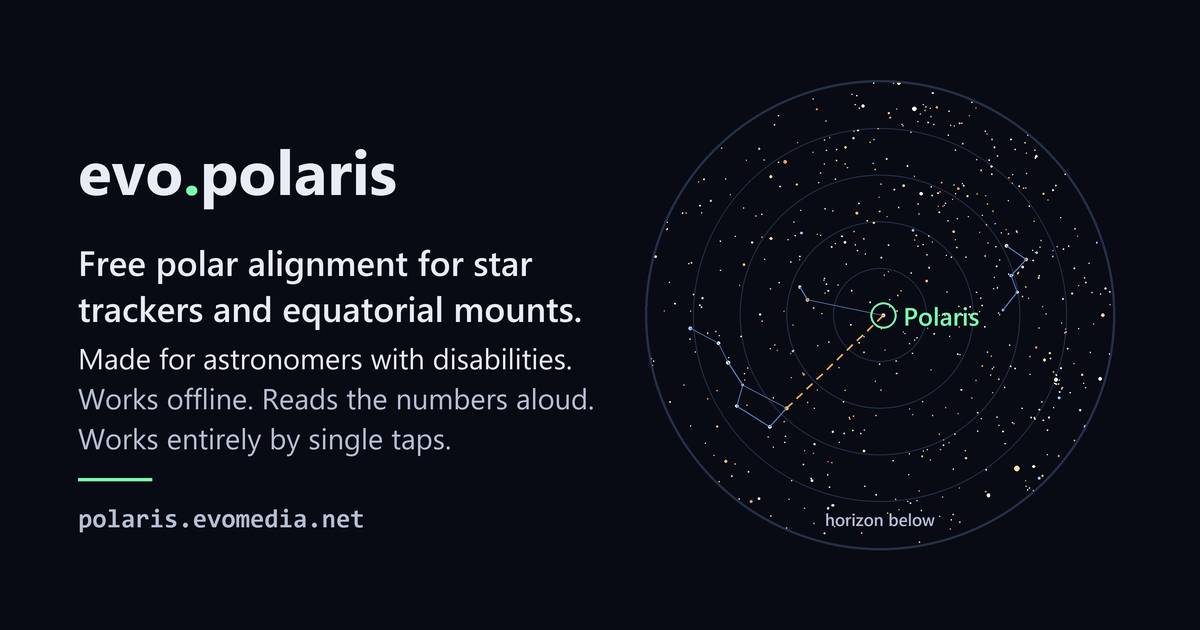
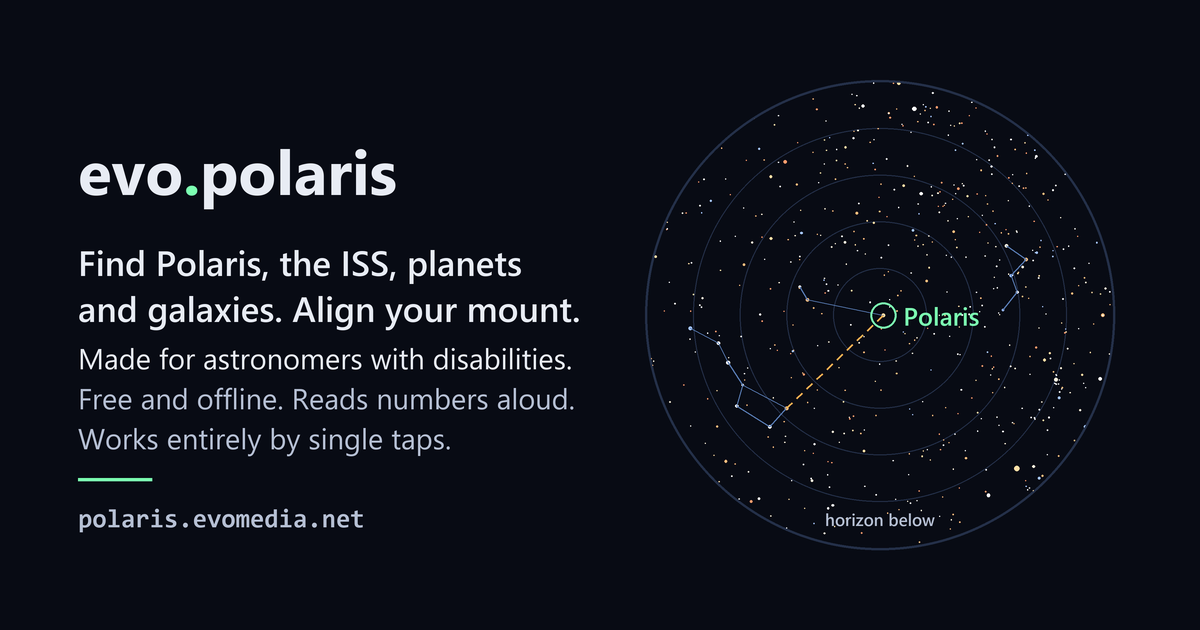
feat(meta): lead the link preview and page title with finding things in the sky (#256)
Kelly: be clearer up front that it is also for easily finding astronomical
objects. The page title, description, Open Graph and Twitter tags, the
manifest and package descriptions now lead with "night-sky guide", and the
card's headline reads "Find Polaris, the ISS, planets and galaxies. Align
your mount." The card moves to ?v=5 so link previews refetch it; the cache
key moves to 0.0.1.0.61.

Changed region(s): [[0.0617, 0.3921, 0.4933, 0.5429], [0.0617, 0.6032, 0.4933, 0.6635]]

diff --git a/site/index.html b/site/index.html
@@ -7,8 +7,8 @@
 <meta charset="utf-8">
 <meta name="viewport" content="width=device-width, initial-scale=1, viewport-fit=cover">
 <meta name="theme-color" content="#080b14">
-<title>evo.polaris — accessible polar alignment and night-sky guide</title>
-<meta name="description" content="Free, accessible polar alignment and night-sky guide: find Polaris, the ISS, the planets, constellations and galaxies. Made for astronomers with physical disabilities, limited fine motor control or low vision, and usable by everyone.">
+<title>evo.polaris — accessible night-sky guide and polar alignment</title>
+<meta name="description" content="Free, accessible night-sky guide and polar alignment: one tap finds Polaris, the ISS, the planets, constellations and galaxies. Made for astronomers with physical disabilities, limited fine motor control or low vision, and usable by everyone.">
 <link rel="canonical" href="https://polaris.evomedia.net/">
 
 <!-- Open Graph. The page is shared by link - in forums, in messages, to one
@@ -17,18 +17,18 @@
      og:image must be absolute: scrapers do not resolve relative paths. -->
 <meta property="og:type" content="website">
 <meta property="og:site_name" content="evo.polaris">
-<meta property="og:title" content="evo.polaris — accessible polar alignment and night-sky guide">
-<meta property="og:description" content="Free, accessible polar alignment and night-sky guide: find Polaris, the ISS, the planets, constellations and galaxies. Made for astronomers with physical disabilities, limited fine motor control or low vision, and usable by everyone.">
+<meta property="og:title" content="evo.polaris — accessible night-sky guide and polar alignment">
+<meta property="og:description" content="Free, accessible night-sky guide and polar alignment: one tap finds Polaris, the ISS, the planets, constellations and galaxies. Made for astronomers with physical disabilities, limited fine motor control or low vision, and usable by everyone.">
 <meta property="og:url" content="https://polaris.evomedia.net/">
-<meta property="og:image" content="https://polaris.evomedia.net/og-card.png?v=4">
+<meta property="og:image" content="https://polaris.evomedia.net/og-card.png?v=5">
 <meta property="og:image:type" content="image/png">
 <meta property="og:image:width" content="1200">
 <meta property="og:image:height" content="630">
 <meta property="og:image:alt" content="The evo.polaris sky chart: Polaris circled at the pole, with the Big Dipper's pointer stars aimed at it.">
 <meta name="twitter:card" content="summary_large_image">
-<meta name="twitter:title" content="evo.polaris — accessible polar alignment and night-sky guide">
-<meta name="twitter:description" content="Free, accessible polar alignment and night-sky guide: find Polaris, the ISS, the planets, constellations and galaxies. Made for astronomers with physical disabilities, limited fine motor control or low vision, and usable by everyone.">
-<meta name="twitter:image" content="https://polaris.evomedia.net/og-card.png?v=4">
+<meta name="twitter:title" content="evo.polaris — accessible night-sky guide and polar alignment">
+<meta name="twitter:description" content="Free, accessible night-sky guide and polar alignment: one tap finds Polaris, the ISS, the planets, constellations and galaxies. Made for astronomers with physical disabilities, limited fine motor control or low vision, and usable by everyone.">
+<meta name="twitter:image" content="https://polaris.evomedia.net/og-card.png?v=5">
 <meta name="twitter:image:alt" content="The evo.polaris sky chart: Polaris circled at the pole, with the Big Dipper's pointer stars aimed at it.">
 
 <link rel="icon" href="src/data/icon.svg" type="image/svg+xml">

diff --git a/site/sw.js b/site/sw.js
@@ -21,7 +21,7 @@
 //
 // This is a CACHE KEY, not the release stamp. build-version.json stays where
 // it is; the build advances once per release on the default branch.
-const VERSION = '0.0.1.0.60';
+const VERSION = '0.0.1.0.61';
 const CACHE = `evo-polaris-${VERSION}`;
 
 const ASSETS = [

diff --git a/scripts/make_og_card.py b/scripts/make_og_card.py
@@ -91,7 +91,11 @@ PAD = 78
 CHART_CX, CHART_CY, CHART_D = 880, 315, 470
 
 TITLE = "evo.polaris"
-HEADLINE = ["Free polar alignment for star", "trackers and equatorial mounts."]
+# Finding things first, then aligning the mount: the app grew from a polar
+# scope helper into a guide to the whole sky, and the card said only the
+# first half. "Find Polaris" still holds -- the chart is rendered from a
+# northern latitude for exactly that reason (see README).
+HEADLINE = ["Find Polaris, the ISS, planets", "and galaxies. Align your mount."]
 # The supporting paragraph. Every line is a README claim, unchanged.
 #
 # WHO IT IS FOR GOES FIRST, AND IN THE BRIGHTER INK. The card said what the app
@@ -100,7 +104,7 @@ HEADLINE = ["Free polar alignment for star", "trackers and equatorial mounts."]
 # lines under it are the evidence for the first: without them "made for
 # astronomers with disabilities" is a claim, and with them it is a description.
 PARAGRAPH = ["Made for astronomers with disabilities.",
-             "Works offline. Reads the numbers aloud.",
+             "Free and offline. Reads numbers aloud.",
              "Works entirely by single taps."]
 DOMAIN = "polaris.evomedia.net"
 
